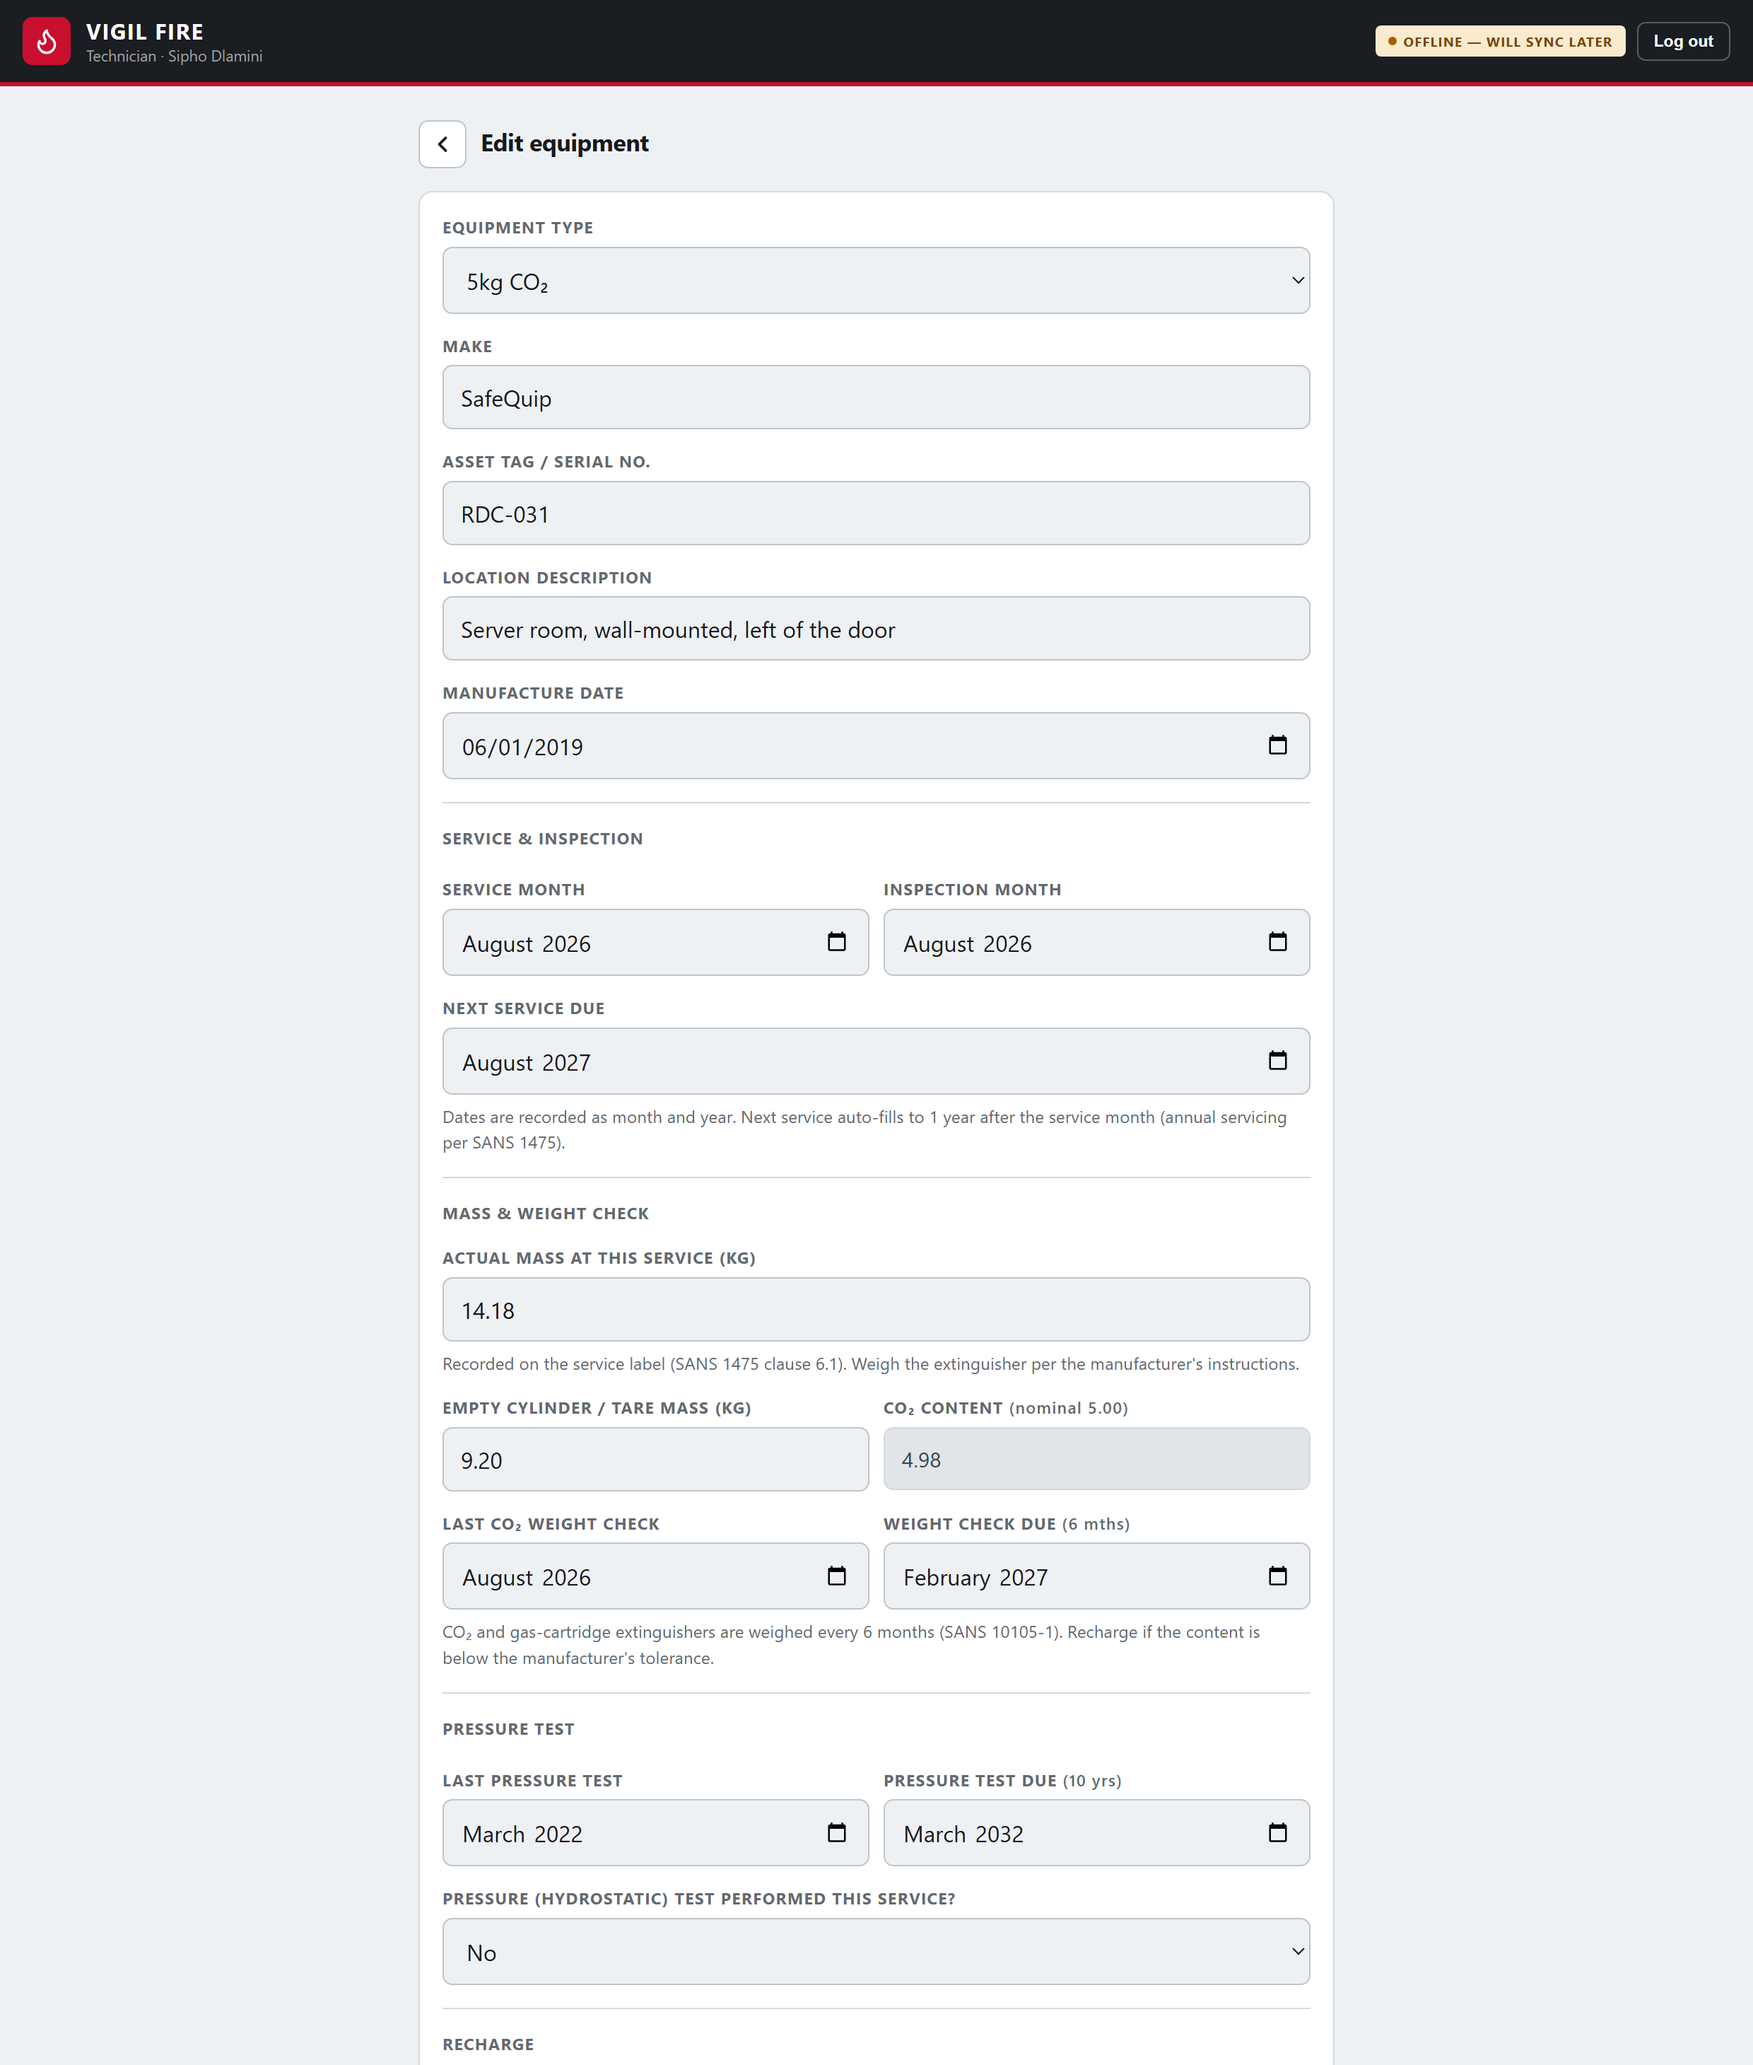
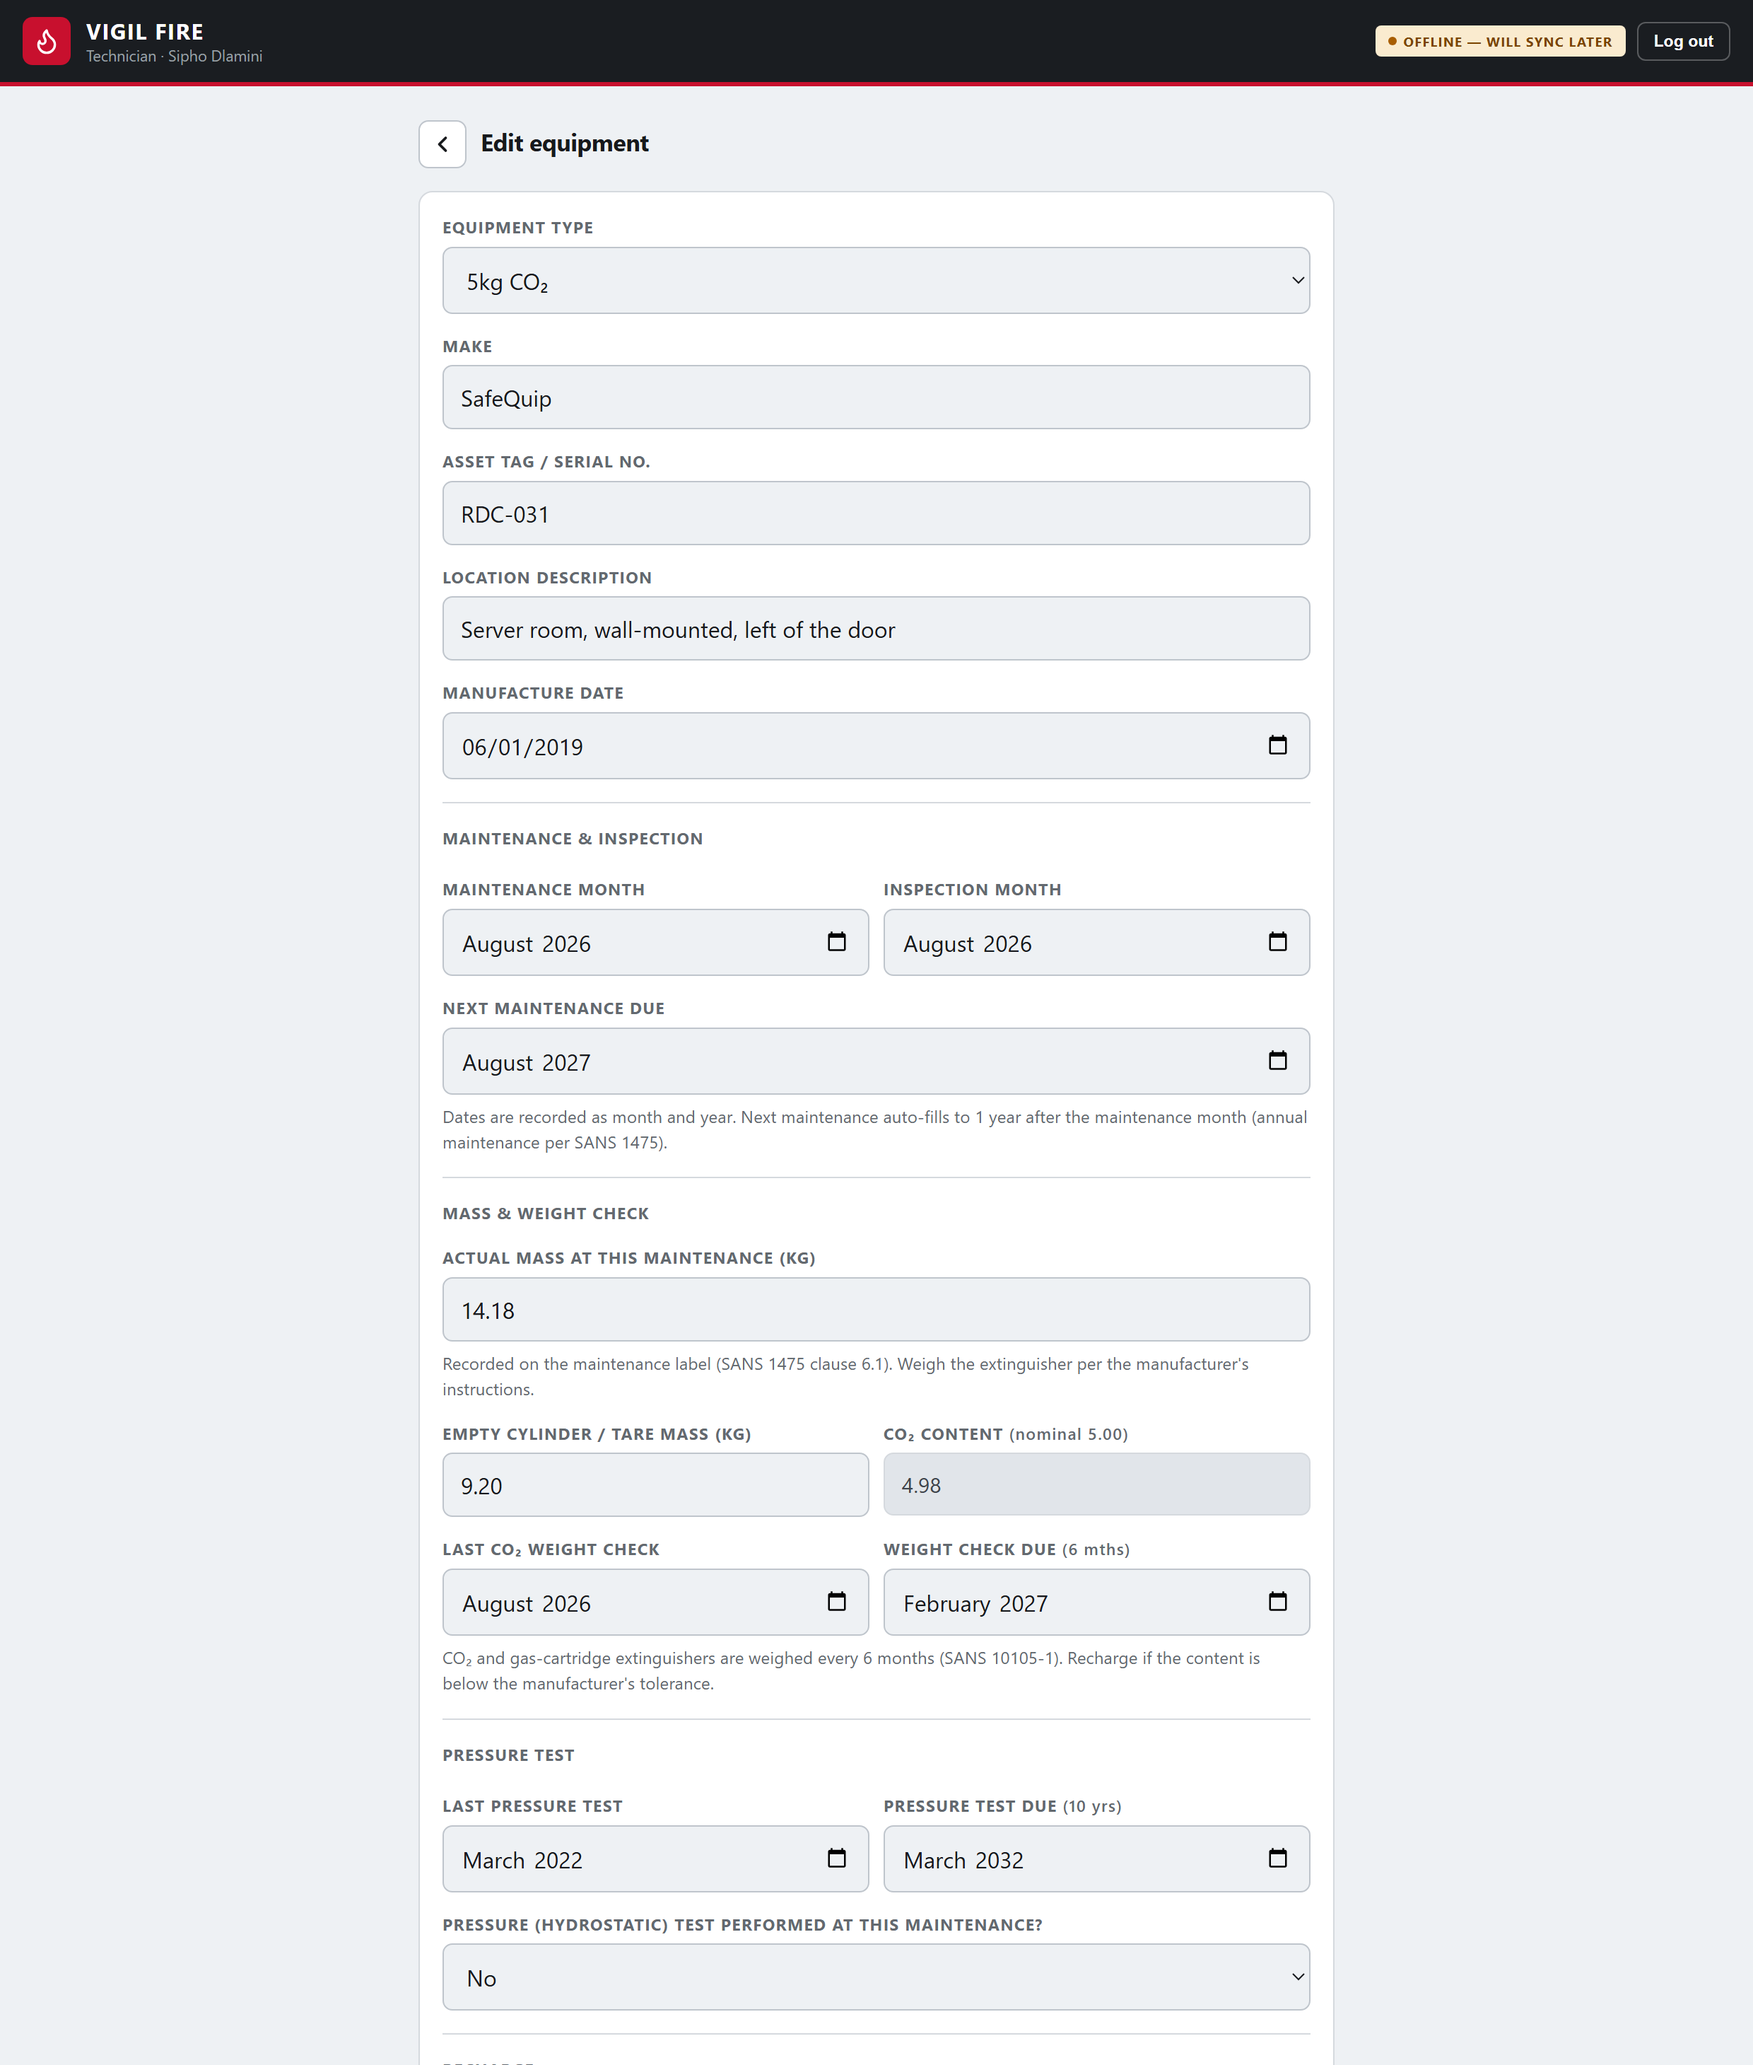
screenshots update

diff --git a/screens/README1.md b/screens/README1.md
@@ -6,7 +6,7 @@ headless Chrome at 2× for retina displays.
 
 | File | Section | What it shows |
 |---|---|---|
-| `site-register.png` | Hero | A site's equipment register — service type, status accents, printable register / certificate |
+| `site-register.png` | Hero | A site's equipment register — maintenance type, status accents, printable register / certificate |
 | `due-list.png` | "The Due list is the day's work" | Cross-site Due & overdue dashboard, most urgent first |
 | `equipment-form.png` | "No signal in the basement?" | The combined equipment + inspection form |
 | `trainee-logbook.png` | "The SAQCC trainee logbook" | A trainee's view — training status, daily logbook, competency progress |
